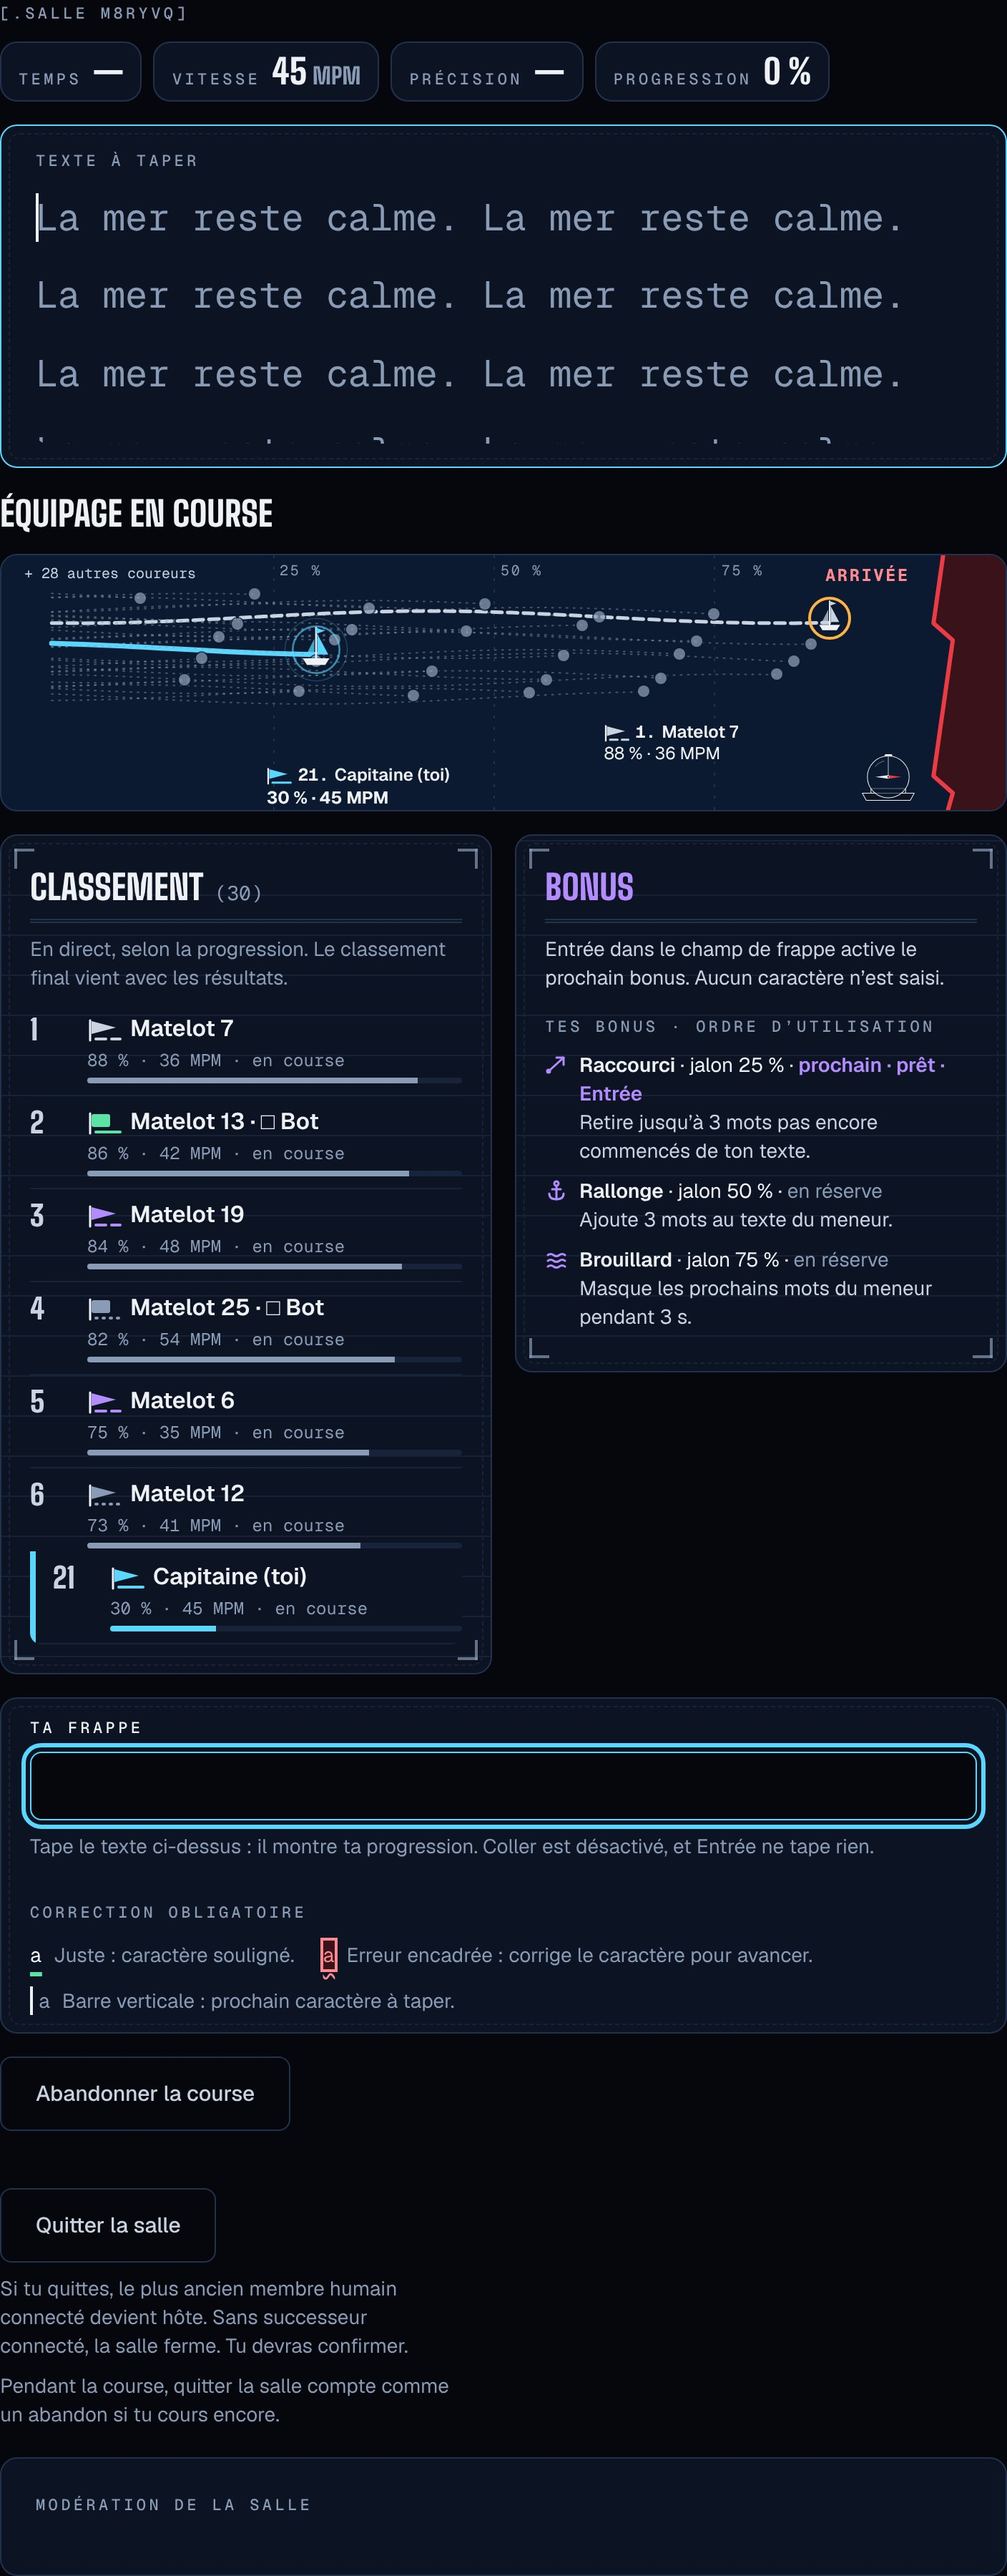
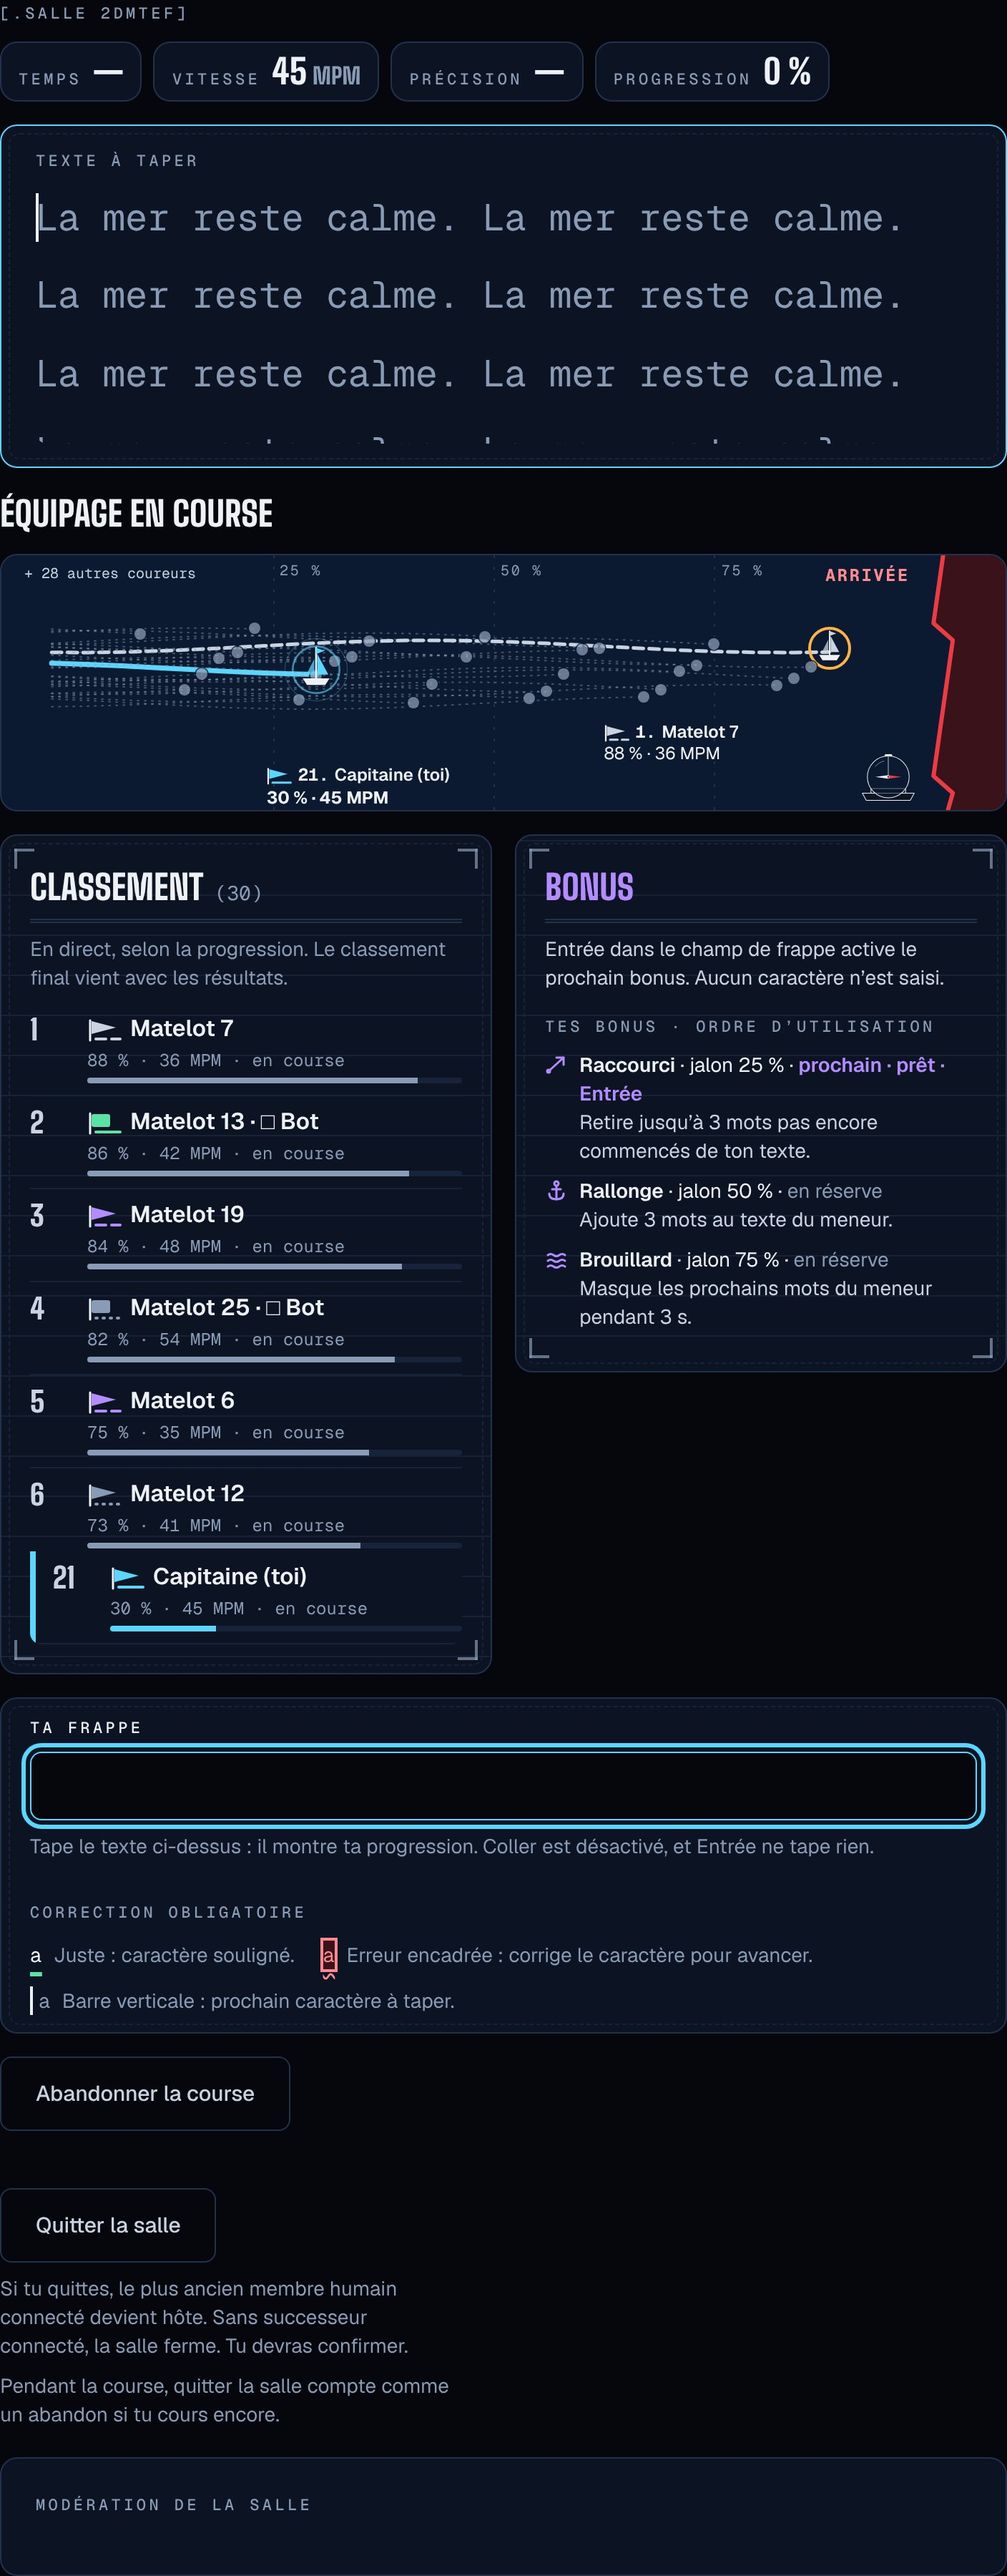
fix(races): keep every ship clear of the chart's words and of mine
From the UI/UX review of 92004d4:
- My ship no longer paints over the words' plates (back under them); the
  lanes keep clear of both words on every chart instead: on the tablet
  they run between 30 and 58 % of the height, below « + N » and
  « ARRIVÉE »; on a chart of 400 px or less the count is set at 10 px and
  ships stop at 58 %, short of it.
- A side keeps its ships as long as one berth fits there (it sent them
  all across before, where the reach could not clear mine): a crew
  exactly level now leaves my ship clear, and the strict « no hull over
  mine » check holds again on every capture.
- da2-race.spec.ts: no ship, mine included, on either word, on every
  chart; the level-crew exception is gone. The narrow-chart unit bounds
  are tightened to the measured residual (8.9 % short, 2.7 % touching).

Claude-Session: https://claude.ai/code/session_01FBFqZL8NQL9Yzz1qyg8vKZ

Changed region(s): [[0.0312, 0.2178, 0.7188, 0.28], [0.75, 0.2178, 0.8438, 0.28]]

diff --git a/apps/web/src/components/races/track-layout.ts b/apps/web/src/components/races/track-layout.ts
@@ -128,10 +128,12 @@ export const SHIP_BERTHS: ShipBerths = { clear: 7.5, level: 16, ease: 4, min: 4,
 export const NARROW_LANES = { offset: 30 - 16 * (25 / 39), scale: 25 / 39 } as const;
 /** The lane-space value drawn at 63 % on a narrow chart: where a name's connector ends. */
 export const NARROW_LINK_END = Math.round((63 - NARROW_LANES.offset) / NARROW_LANES.scale * 100) / 100;
+/** On a narrow chart a ship's mast stops at 58 %, short of the others' count on the right (`.more`). */
+const NARROW_SHIP_MAX = 58;
 export const NARROW_SHIP_BERTHS: ShipBerths = { ...SHIP_BERTHS, clear: SHIP_BERTHS.clear / NARROW_LANES.scale, reach: SHIP_BERTHS.reach / NARROW_LANES.scale,
-  min: (30 - NARROW_LANES.offset) / NARROW_LANES.scale, max: (SHIP_BERTHS.max - NARROW_LANES.offset) / NARROW_LANES.scale };
+  min: (30 - NARROW_LANES.offset) / NARROW_LANES.scale, max: (NARROW_SHIP_MAX - NARROW_LANES.offset) / NARROW_LANES.scale };
 /** The tablet's chart: lanes down its 180 px, the course along its width. Only two ships sail there. */
-export const HORIZONTAL_SHIP_BERTHS: ShipBerths = { clear: 18, level: 4, ease: 1.5, min: 14, max: 62, reach: 20 };
+export const HORIZONTAL_SHIP_BERTHS: ShipBerths = { clear: 14, level: 4, ease: 1.5, min: 30, max: 58, reach: 20 };
 
 /** A ship to place: its fixed lane's rank, its marker across the lanes (`across`) and along the course (`along`). */
 type Berthing = { readonly id: string; readonly self: boolean; readonly lane: number; /** The fixed lane's own place across the chart, without the route's swing. */ readonly berth: number; readonly across: number; readonly along: number };
@@ -161,7 +163,7 @@ function shipShifts(ships: readonly Berthing[], berths: ShipBerths): ReadonlyMap
   const upper = others.filter((ship) => ship.lane > anchor.lane).sort((a, b) => a.lane - b.lane);
   // A side without room for one ship beside the fixed one (it sails by an edge) sends its ships to
   // the other side. Decided from the lanes, fixed for the round, never from a position.
-  const room = berths.clear + SWING;
+  const room = berths.clear;
   if (anchor.berth - berths.min < room && berths.max - anchor.berth >= room) upper.unshift(...lower.splice(0).reverse());
   else if (berths.max - anchor.berth < room && anchor.berth - berths.min >= room) lower.unshift(...upper.splice(0).reverse());
   for (const [side, group] of [[-1, lower], [1, upper]] as const) {
@@ -195,7 +197,8 @@ export function trackLayout(entrants: readonly Runner[], selfId: string | null):
   const routes = routeStyles(stable, selfId);
   const share = (index: number) => stable.length <= 1 ? 0.5 : index / (stable.length - 1);
   const laneOf = (index: number) => 16 + 39 * share(index);
-  const horizontalLaneOf = (index: number) => 16 + 40 * share(index);
+  // The tablet's lanes keep below the two words along its top edge (« + N », « ARRIVÉE »): 30 to 58 % of 180 px.
+  const horizontalLaneOf = (index: number) => 30 + 28 * share(index);
   const raw = stable.map((runner, index) => {
     const id = runner.entrantId;
     // A fixed lane per runner (its place in the crew by id), so that a route never jumps sideways.

diff --git a/apps/web/e2e/da2-race.spec.ts b/apps/web/e2e/da2-race.spec.ts
@@ -133,25 +133,17 @@ for (const item of cases) {
       const edge = (await track.locator('[data-coast="horizontal"] [data-coast-edge]').boundingBox())!;
       for (const word of boxes.words) expect(word.bottom, "the coastline through a word").toBeLessThanOrEqual(edge.y + 1);
     }
-    // No other ship is ever painted over a word: each word has an opaque plate, above every other
-    // marker. My own ship alone passes in front, so that I never lose sight of it at the finish.
+    // The two words have an opaque plate above every ship, mine included, and no ship reaches them:
+    // on every chart the lanes keep clear of both words.
     for (const word of boxes.words) {
       expect(word.layer, "a word under the ships").toBeGreaterThan(word.above);
-      expect(word.mine, "my ship behind a word").toBeGreaterThan(word.layer);
+      expect(word.layer, "a word under my ship").toBeGreaterThan(word.mine);
+      for (const ship of [...boxes.ships, ...boxes.sails]) expect(overlap(ship, word), `a ship on « ${word.word} »`).toBe(false);
       expect(word.plate).toMatch(/^(rgb\(|color\(srgb [\d. ]+\)$)/);
     }
     // No ship over mine: one that would cover it is drawn beside its marker (two others may touch).
-    // Exception, measured and declared: a whole crew exactly level on a narrow vertical chart (the
-    // by-the-coast cases at 1024 and 1280 × 640) can hold a neighbour short of mine by its 10 %
-    // reach. There, at most a third of my hull may lie under other hulls; mine is drawn above them.
     expect(boxes.mine).toHaveLength(1);
-    const mine = boxes.mine[0]!;
-    const under = boxes.others.reduce((sum, hull) => sum + Math.max(0, Math.min(hull.right, mine.right) - Math.max(hull.left, mine.left))
-      * Math.max(0, Math.min(hull.bottom, mine.bottom) - Math.max(hull.top, mine.top)), 0) / ((mine.right - mine.left) * (mine.bottom - mine.top));
-    if (steps > 4 && !horizontal) {
-      console.info("[my hull under others, level crew]", name, Math.round(under * 100) / 100);
-      expect(under, "my hull under other hulls").toBeLessThanOrEqual(1 / 3);
-    } else for (const hull of boxes.others) expect(overlap(hull, mine), "a hull over mine").toBe(false);
+    for (const hull of boxes.others) expect(overlap(hull, boxes.mine[0]!), "a hull over mine").toBe(false);
     // A ship drawn beside its marker is tied to it, the tether running from the marker to the ship's
     // foot; a ship on its marker has none. Measured as drawn, whatever the chart's mapping.
     if (horizontal) expect(await track.evaluate(el => [...el.querySelectorAll<HTMLElement>("[data-runner]")].filter(marker => marker.querySelector("[data-ship]"))

diff --git a/apps/web/src/components/races/race-track.module.css b/apps/web/src/components/races/race-track.module.css
@@ -54,7 +54,7 @@
 }
 /*
  * The chart's two words sit on the land, on a plate of the land's own colour and above the other
- * ships: a ship reaching the coast passes behind them. Only my own ship passes in front.
+ * ships, mine included. The lanes keep clear of them on every chart, so no ship should reach them.
  */
 .finishText, .more {
   position: absolute;
@@ -152,8 +152,8 @@
 }
 /* A named runner: the marker is the foot of its ship, which carries the colour on its sail. */
 .named { z-index: 2; width: 0; height: 0; box-shadow: none; }
-/* Mine is above everything on the chart, the two words' plates included: I never lose sight of it. */
-.self { z-index: 5; }
+/* Mine above every other ship, below the two words' plates (the lanes keep clear of them). */
+.self { z-index: 3; }
 .ship {
   --ship-size: 46px;
   position: absolute;
@@ -219,6 +219,8 @@
 }
 @container (max-width: 400px) {
   .track .pennant { display: none; }
+  /* The others' count stays right of the furthest a ship can reach (58 %). */
+  .more { font-size: 10px; }
   .label { left: 63%; width: 36.5%; }
 }
 /* Tablet: the same chart turned on its side, the start on the left and the coast on the right. */

diff --git a/apps/web/src/components/races/track-layout.test.ts b/apps/web/src/components/races/track-layout.test.ts
@@ -70,10 +70,10 @@ describe("named ships", () => {
       }
     }
     // The band is narrower (25 % instead of 39 %): in crews bunched on purpose, as here, a neighbour
-    // is more often held short of the full clearance by its 10 % reach (measured: up to 10.5 % of
-    // the ships beside mine with 50 runners), and its hull touches mine in up to 8.3 % of them.
-    expect(stopped).toBeLessThanOrEqual(pairs * 0.12);
-    expect(hulls).toBeLessThanOrEqual(pairs * 0.09);
+    // is more often held short of the full clearance by its 10 % reach (measured: up to 8.9 % of
+    // the ships beside mine with 50 runners), and its hull touches mine in up to 2.7 % of them.
+    expect(stopped).toBeLessThanOrEqual(pairs * 0.1);
+    expect(hulls).toBeLessThanOrEqual(pairs * 0.04);
   });
 
   it.each([6, 30, 50])("slides a ship by little between two small advances while the same runners are named, among %i runners", count => {

diff --git a/docs/evidence/da2-2-race-ships/README.md b/docs/evidence/da2-2-race-ships/README.md
@@ -60,7 +60,10 @@ and dotted lines under the cloth are hard to tell apart.
   label drops its pennant and takes a wider column so that a short name is whole; the standings
   keep every pennant.
 - **The two words on the land** (« ARRIVÉE », « + N autres coureurs ») sit on a plate of the land's
-  colour, above the other ships; my own ship alone passes in front.
+  colour above every ship, and the lanes keep clear of them on every chart: no ship, mine included,
+  reaches them (checked on every capture). On the tablet the lanes run between 30 and 58 % of the
+  chart's height, below the two words; on a chart of 400 px or less the count is set at 10 px and
+  ships stop at 58 %, short of it.
 - **On a narrow vertical chart (600 px or less: the Arcade row from 1024 to 1440 px, the low
   screen, the phone) the lanes start right of « ARRIVÉE »** (my choice of 20 November, option C of
   the comparison): they are drawn between 30 and 55 % of the chart's width instead of 16 to 55 %,
@@ -68,8 +71,8 @@ and dotted lines under the cloth are hard to tell apart.
   the e2e checks it on every vertical capture. Wider charts and the tablet's are unchanged.
   The cost: a narrower band, so more ships drawn beside their marker. Measured on crews bunched on
   purpose (`track-layout.test.ts`): a neighbour held short of the full clearance from mine in up to
-  10.5 % of cases with 50 runners, its hull touching mine in up to 8.3 %; with a whole crew exactly
-  level, as in the by-the-coast captures, mine is then drawn above it.
+  8.9 % of cases with 50 runners, its hull touching mine in up to 2.7 %. A side keeps its ships as
+  long as one berth fits there, so a crew exactly level (the by-the-coast captures) leaves mine clear.
 - **Tablet chart**: a runner it does not name is grey there too, dot and route.
 - **Ships** are drawn at 85 % of the mock-up's size, so that they fit the shortest chart (12 rem).
 
